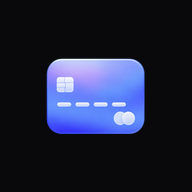
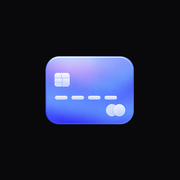
Auto commit

Changed region(s): [[0.2222, 0.2778, 0.7778, 0.7222]]

diff --git a/generate-icons.js b/generate-icons.js
@@ -1,56 +1,96 @@
-const sharp = require('sharp');
-const fs = require('fs');
-const path = require('path');
+const sharp = require("sharp");
+const fs = require("fs");
+const path = require("path");
 
 async function generateIcons() {
-  const inputPath = path.join(__dirname, 'public', 'lg-sem-fundo.png');
-  const icon192Path = path.join(__dirname, 'public', 'icon-192.png');
-  const icon512Path = path.join(__dirname, 'public', 'icon-512.png');
-  
+  const inputPath = path.join(__dirname, "public", "lg-sem-fundo.png");
+  const icon192Path = path.join(__dirname, "public", "icon-192.png");
+  const icon512Path = path.join(__dirname, "public", "icon-512.png");
+  const faviconPath = path.join(__dirname, "public", "favicon.ico");
+  const appFaviconPath = path.join(__dirname, "src", "app", "favicon.ico");
+  const appIconPath = path.join(__dirname, "src", "app", "icon.png");
+  const appleIconPath = path.join(__dirname, "src", "app", "apple-icon.png");
+
   if (!fs.existsSync(inputPath)) {
-    console.error('Input image not found');
+    console.error("Input image not found");
     return;
   }
 
-  // Create a 512x512 with dark background and centered logo (scaled to fit)
-  await sharp({
-    create: {
-      width: 512,
-      height: 512,
-      channels: 4,
-      background: { r: 9, g: 9, b: 11, alpha: 1 } // #09090b
-    }
-  })
-  .composite([
-    {
-      input: await sharp(inputPath).resize(360, 360, { fit: 'contain', background: { r: 0, g: 0, b: 0, alpha: 0 } }).toBuffer(),
-      gravity: 'center'
-    }
-  ])
-  .png()
-  .toFile(icon512Path);
+  await createPngIcon(inputPath, icon512Path, 512, 360);
+  console.log("Created icon-512.png");
 
-  console.log('Created icon-512.png');
+  await createPngIcon(inputPath, icon192Path, 192, 140);
+  console.log("Created icon-192.png");
 
-  // Create a 192x192 with dark background and centered logo (scaled to fit)
-  await sharp({
-    create: {
-      width: 192,
-      height: 192,
-      channels: 4,
-      background: { r: 9, g: 9, b: 11, alpha: 1 } // #09090b
-    }
-  })
-  .composite([
-    {
-      input: await sharp(inputPath).resize(140, 140, { fit: 'contain', background: { r: 0, g: 0, b: 0, alpha: 0 } }).toBuffer(),
-      gravity: 'center'
-    }
-  ])
-  .png()
-  .toFile(icon192Path);
+  await sharp(icon512Path).resize(192, 192).png().toFile(appIconPath);
+  await sharp(icon512Path).resize(180, 180).png().toFile(appleIconPath);
 
-  console.log('Created icon-192.png');
+  const faviconBuffers = await Promise.all(
+    [16, 32, 48, 64].map((size) =>
+      sharp(icon512Path).resize(size, size).png().toBuffer(),
+    ),
+  );
+  const ico = createIco(faviconBuffers, [16, 32, 48, 64]);
+  fs.writeFileSync(faviconPath, ico);
+  fs.writeFileSync(appFaviconPath, ico);
+  console.log("Created favicon.ico");
 }
 
-generateIcons().catch(console.error);
+async function createPngIcon(inputPath, outputPath, size, logoSize) {
+  const logoBuffer = await sharp(inputPath)
+    .resize(logoSize, logoSize, {
+      fit: "contain",
+      background: { r: 0, g: 0, b: 0, alpha: 0 },
+    })
+    .png()
+    .toBuffer();
+
+  return sharp({
+    create: {
+      width: size,
+      height: size,
+      channels: 4,
+      background: { r: 9, g: 9, b: 11, alpha: 1 },
+    },
+  })
+    .composite([
+      {
+        input: logoBuffer,
+        gravity: "center",
+      },
+    ])
+    .png()
+    .toFile(outputPath);
+}
+
+function createIco(images, sizes) {
+  const headerSize = 6;
+  const directorySize = 16 * images.length;
+  let offset = headerSize + directorySize;
+  const header = Buffer.alloc(headerSize);
+  header.writeUInt16LE(0, 0);
+  header.writeUInt16LE(1, 2);
+  header.writeUInt16LE(images.length, 4);
+
+  const directories = images.map((image, index) => {
+    const size = sizes[index];
+    const entry = Buffer.alloc(16);
+    entry.writeUInt8(size >= 256 ? 0 : size, 0);
+    entry.writeUInt8(size >= 256 ? 0 : size, 1);
+    entry.writeUInt8(0, 2);
+    entry.writeUInt8(0, 3);
+    entry.writeUInt16LE(1, 4);
+    entry.writeUInt16LE(32, 6);
+    entry.writeUInt32LE(image.length, 8);
+    entry.writeUInt32LE(offset, 12);
+    offset += image.length;
+    return entry;
+  });
+
+  return Buffer.concat([header, ...directories, ...images]);
+}
+
+generateIcons().catch((error) => {
+  console.error(error);
+  process.exitCode = 1;
+});

diff --git a/src/components/records/collaborators-view.tsx b/src/components/records/collaborators-view.tsx
@@ -14,6 +14,10 @@ import { getOperatorColor } from "@/lib/records/colors";
 import { formatCurrency, formatInteger, formatTime } from "@/lib/utils/format";
 import { toDateKey, formatLongDate } from "@/lib/utils/format";
 import type { OperatorRecord, Collaborator } from "@/lib/records/types";
+import {
+  COLLABORATOR_SUBROLES,
+  normalizeCollaboratorSubRole,
+} from "@/lib/records/collaborator-subroles";
 import { cn } from "@/lib/utils/cn";
 import { CustomSelect } from "@/components/ui/custom-select";
 import { useAuth } from "@/components/providers/auth-provider";
@@ -32,10 +36,11 @@ function CreateCollaboratorModal({
   isGlobalAdmin: boolean;
   userStoreId?: string | null;
   onClose: () => void;
-  onCreated: (name: string, storeId: string) => Promise<void>;
+  onCreated: (name: string, storeId: string, subRole: string) => Promise<void>;
 }) {
   const [name, setName] = useState("");
   const [storeId, setStoreId] = useState(isGlobalAdmin ? "" : (userStoreId ?? ""));
+  const [subRole, setSubRole] = useState(COLLABORATOR_SUBROLES[0]);
   const [isLoading, setIsLoading] = useState(false);
   const [error, setError] = useState("");
 
@@ -46,7 +51,7 @@ function CreateCollaboratorModal({
     setIsLoading(true);
     setError("");
     try {
-      await onCreated(name.trim(), storeId);
+      await onCreated(name.trim(), storeId, subRole);
       onClose();
     } catch (err: unknown) {
       setError(err instanceof Error ? err.message : "Erro ao criar.");
@@ -113,6 +118,17 @@ function CreateCollaboratorModal({
                 options={stores.map(s => ({ value: s.id, label: s.name }))}
               />
             )}
+          </div>
+
+          <div>
+            <label className="mb-1.5 block text-xs font-semibold text-zinc-600 uppercase tracking-wide">
+              Subcargo
+            </label>
+            <CustomSelect
+              value={subRole}
+              onChange={(value) => setSubRole(normalizeCollaboratorSubRole(value))}
+              options={COLLABORATOR_SUBROLES.map((role) => ({ value: role, label: role }))}
+            />
           </div>
 
           {error && (
@@ -313,10 +329,10 @@ export function CollaboratorsView(props: { isGlobalAdmin?: boolean; userStoreId?
 
   useEffect(() => { void loadCollaborators(); }, [loadCollaborators]);
 
-  async function handleCreateCollaborator(name: string, storeId: string) {
-    const d = (await apiRequest({ action: "create", name, storeId })) as { collaborators: Collaborator[] };
+  async function handleCreateCollaborator(name: string, storeId: string, subRole: string) {
+    const d = (await apiRequest({ action: "create", name, storeId, subRole })) as { collaborators: Collaborator[] };
     setCollaborators(d.collaborators);
-    showSuccess(`Colaborador "${name}" cadastrado com sucesso.`);
+    showSuccess(`Colaborador "${name}" cadastrado como ${subRole}.`);
   }
 
   const loadRecords = useCallback(async (collabId: string) => {
@@ -808,6 +824,9 @@ export function CollaboratorsView(props: { isGlobalAdmin?: boolean; userStoreId?
                     )}
                   </div>
                   <p className="mt-0.5 text-xs text-zinc-500">Registrado em {new Date(collab.createdAt).toLocaleDateString("pt-BR")}</p>
+                  <span className="mt-2 inline-flex max-w-full rounded-lg bg-zinc-100 px-2 py-1 text-[11px] font-bold uppercase tracking-wide text-zinc-600">
+                    {collab.subRole}
+                  </span>
                 </div>
                 <div className="flex items-center gap-1">
                   {collab.isActive && (

diff --git a/src/lib/records/repository.ts b/src/lib/records/repository.ts
@@ -4,6 +4,10 @@ import { supabaseAdmin } from "@/lib/supabase/server";
 import { normalizePersonName } from "./domain";
 import { createRecordSchema } from "./schema";
 import type { OperatorRecord, Collaborator } from "./types";
+import {
+  DEFAULT_COLLABORATOR_SUBROLE,
+  normalizeCollaboratorSubRole,
+} from "./collaborator-subroles";
 
 type DbRecord = {
   id: string;
@@ -118,7 +122,7 @@ export async function updateRecord(id: string, updates: { clientName?: string; a
 export async function listCollaborators(storeId?: string | null): Promise<Collaborator[]> {
   let query = supabaseAdmin
     .from("collaborators")
-    .select("id, name, is_active, merged_into_id, store_id, created_at")
+    .select("*")
     .order("name", { ascending: true });
 
   if (storeId) query = query.eq("store_id", storeId);
@@ -129,6 +133,7 @@ export async function listCollaborators(storeId?: string | null): Promise<Collab
   return data.map((d) => ({
     id: d.id,
     name: d.name,
+    subRole: normalizeCollaboratorSubRole(d.sub_role),
     isActive: d.is_active,
     mergedIntoId: d.merged_into_id,
     storeId: d.store_id,
@@ -142,7 +147,7 @@ export async function listCollaborators(storeId?: string | null): Promise<Collab
 export async function listActiveCollaborators(storeId?: string | null): Promise<Collaborator[]> {
   let query = supabaseAdmin
     .from("collaborators")
-    .select("id, name, is_active, merged_into_id, store_id, created_at")
+    .select("*")
     .eq("is_active", true)
     .order("name", { ascending: true });
 
@@ -154,6 +159,7 @@ export async function listActiveCollaborators(storeId?: string | null): Promise<
   return data.map((d) => ({
     id: d.id,
     name: d.name,
+    subRole: normalizeCollaboratorSubRole(d.sub_role),
     isActive: d.is_active,
     mergedIntoId: d.merged_into_id,
     storeId: d.store_id,
@@ -164,16 +170,30 @@ export async function listActiveCollaborators(storeId?: string | null): Promise<
 /**
  * Cria colaborador. storeId é OBRIGATÓRIO e vem do JWT (nunca do frontend).
  */
-export async function createCollaborator(name: string, storeId: string): Promise<void> {
+export async function createCollaborator(
+  name: string,
+  storeId: string,
+  subRole: unknown = DEFAULT_COLLABORATOR_SUBROLE,
+): Promise<void> {
   const normalized = normalizePersonName(name);
+  const normalizedSubRole = normalizeCollaboratorSubRole(subRole);
   if (!normalized) throw new Error("Nome é obrigatório.");
   if (!storeId) throw new Error("Unidade (loja) é obrigatória para criar um colaborador.");
 
   const { error } = await supabaseAdmin
     .from("collaborators")
-    .insert({ name: normalized, store_id: storeId });
+    .insert({ name: normalized, store_id: storeId, sub_role: normalizedSubRole });
 
-  if (error) throw new Error(`Erro ao criar colaborador: ${error.message}`);
+  if (error) {
+    if (error.code === "PGRST204" || error.code === "42703") {
+      const retry = await supabaseAdmin
+        .from("collaborators")
+        .insert({ name: normalized, store_id: storeId });
+      if (retry.error) throw new Error(`Erro ao criar colaborador: ${retry.error.message}`);
+      return;
+    }
+    throw new Error(`Erro ao criar colaborador: ${error.message}`);
+  }
 }
 
 export async function getCollaboratorRecords(collaboratorId: string): Promise<OperatorRecord[]> {

diff --git a/src/components/records/add-record-modal.tsx b/src/components/records/add-record-modal.tsx
@@ -63,11 +63,11 @@ export function AddRecordModal({
         .then(d => {
           if (d.collaborators) {
             // Filtra para pegar apenas os funcionários ativos da loja (já filtrados pelo backend)
-            const activeEmployees = (d.collaborators as { id: string; name: string; isActive: boolean }[])
+            const activeEmployees = (d.collaborators as { id: string; name: string; subRole?: string; isActive: boolean }[])
               .filter(c => c.isActive)
               .map(c => ({
                 value: c.id,
-                label: c.name
+                label: c.subRole ? `${c.name} - ${c.subRole}` : c.name
               }));
             setCollaborators(activeEmployees);
           }

diff --git a/src/lib/records/collaborator-subroles.ts b/src/lib/records/collaborator-subroles.ts
@@ -1,0 +1,18 @@
+import type { CollaboratorSubRole } from "./types";
+
+export const COLLABORATOR_SUBROLES: CollaboratorSubRole[] = [
+  "Funcionario Operacional",
+  "Caixa",
+  "Lider de Caixa",
+  "VM",
+];
+
+export const DEFAULT_COLLABORATOR_SUBROLE: CollaboratorSubRole =
+  "Funcionario Operacional";
+
+export function normalizeCollaboratorSubRole(value: unknown): CollaboratorSubRole {
+  if (typeof value !== "string") return DEFAULT_COLLABORATOR_SUBROLE;
+  return COLLABORATOR_SUBROLES.includes(value as CollaboratorSubRole)
+    ? (value as CollaboratorSubRole)
+    : DEFAULT_COLLABORATOR_SUBROLE;
+}

diff --git a/src/app/layout.tsx b/src/app/layout.tsx
@@ -18,6 +18,16 @@ const geistMono = Geist_Mono({
 
 export const metadata: Metadata = {
   title: "Card+",
+  manifest: "/manifest.webmanifest",
+  icons: {
+    icon: [
+      { url: "/favicon.ico", sizes: "any" },
+      { url: "/icon-192.png", sizes: "192x192", type: "image/png" },
+      { url: "/icon-512.png", sizes: "512x512", type: "image/png" },
+    ],
+    shortcut: "/favicon.ico",
+    apple: [{ url: "/apple-icon.png", sizes: "180x180", type: "image/png" }],
+  },
   description: "Gestão de Performance, operadores na captação de cartões.",
   appleWebApp: {
     capable: true,

diff --git a/src/app/manifest.ts b/src/app/manifest.ts
@@ -5,7 +5,9 @@ export default function manifest(): MetadataRoute.Manifest {
     name: 'Digaspi Card',
     short_name: 'Digaspi',
     description: 'Sistema de gestão de cartões Digaspi',
+    id: '/',
     start_url: '/',
+    scope: '/',
     display: 'standalone',
     background_color: '#09090b',
     theme_color: '#09090b',
@@ -14,6 +16,7 @@ export default function manifest(): MetadataRoute.Manifest {
         src: '/icon-192.png',
         sizes: '192x192',
         type: 'image/png',
+        purpose: 'any'
       },
       {
         src: '/icon-512.png',

diff --git a/src/app/api/collaborators/route.ts b/src/app/api/collaborators/route.ts
@@ -73,7 +73,7 @@ export async function POST(request: Request) {
         );
       }
 
-      await createCollaborator(body.name as string, targetStoreId);
+      await createCollaborator(body.name as string, targetStoreId, body.subRole as string);
       const collaborators = await listCollaborators(storeId);
       return NextResponse.json({ collaborators, success: true }, { headers: noStore });
     }

diff --git a/src/lib/records/types.ts b/src/lib/records/types.ts
@@ -59,9 +59,16 @@ export type CreateRecordPayload = {
   activated: boolean;
 };
 
+export type CollaboratorSubRole =
+  | "Funcionario Operacional"
+  | "Caixa"
+  | "Lider de Caixa"
+  | "VM";
+
 export type Collaborator = {
   id: string;
   name: string;
+  subRole: CollaboratorSubRole;
   isActive: boolean;
   mergedIntoId: string | null;
   storeId?: string | null;
